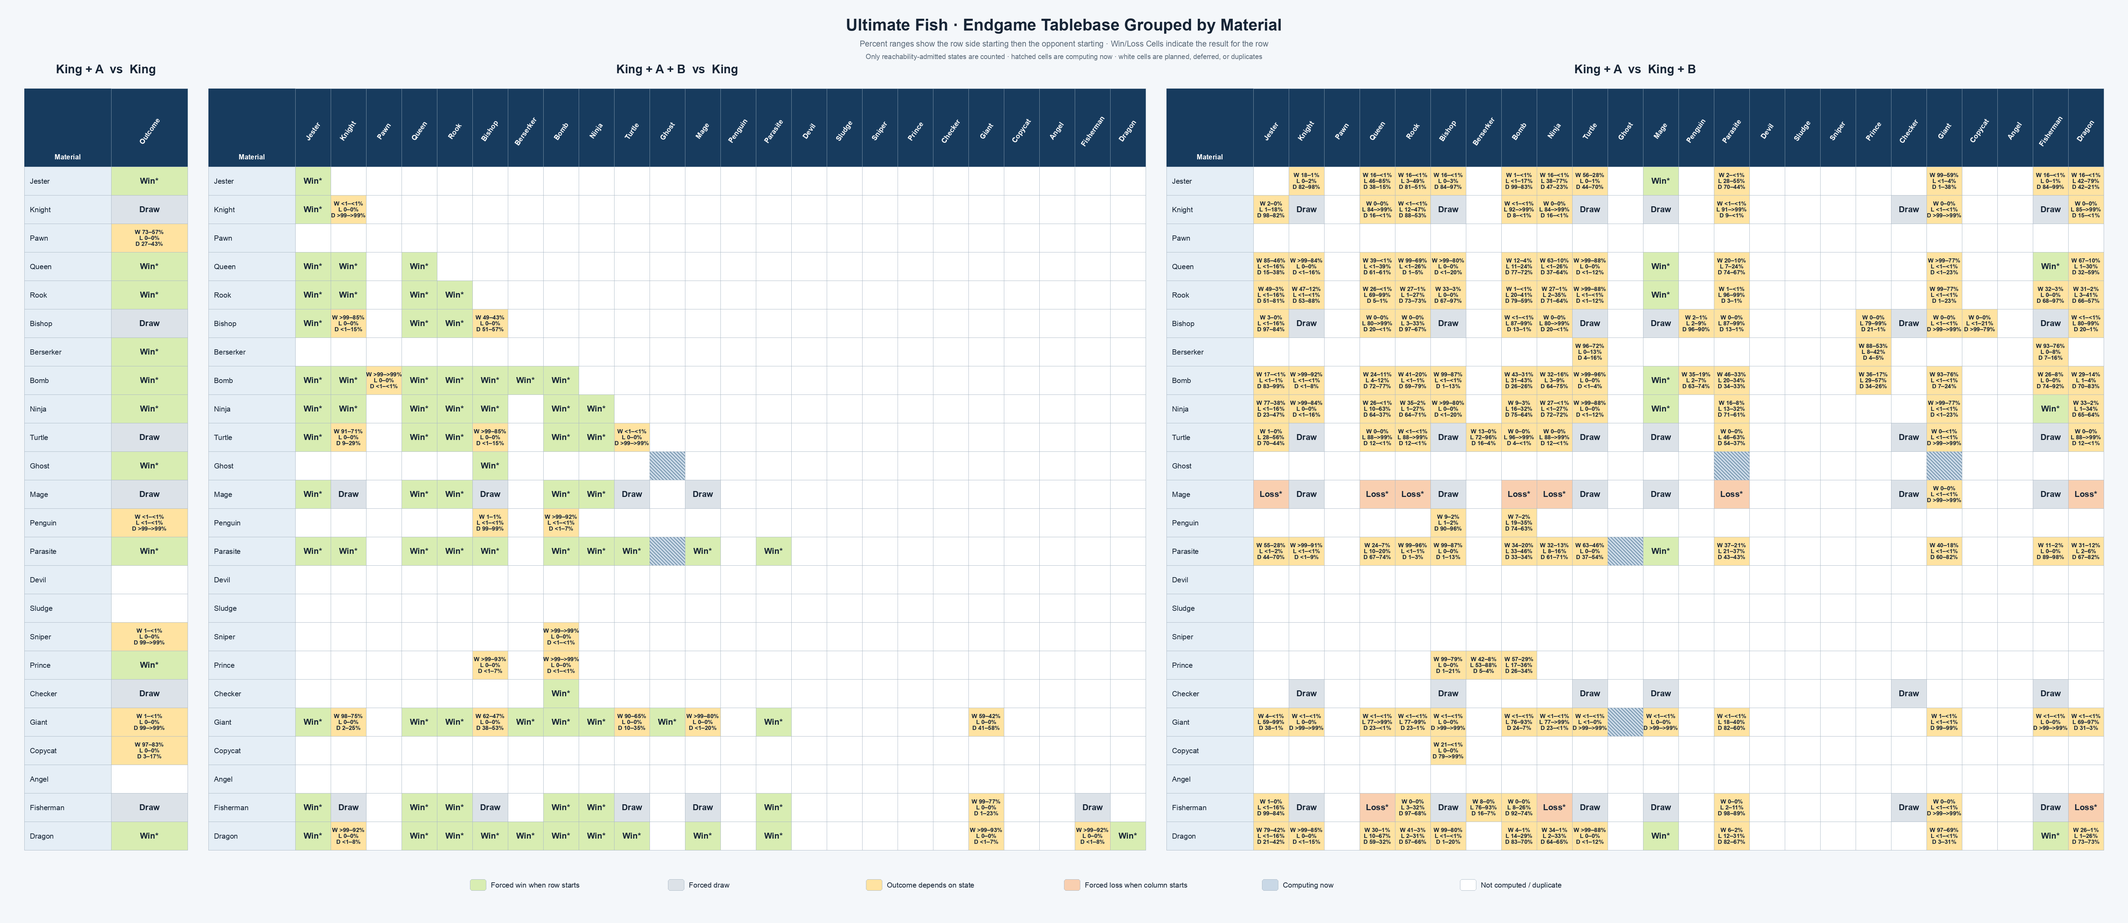
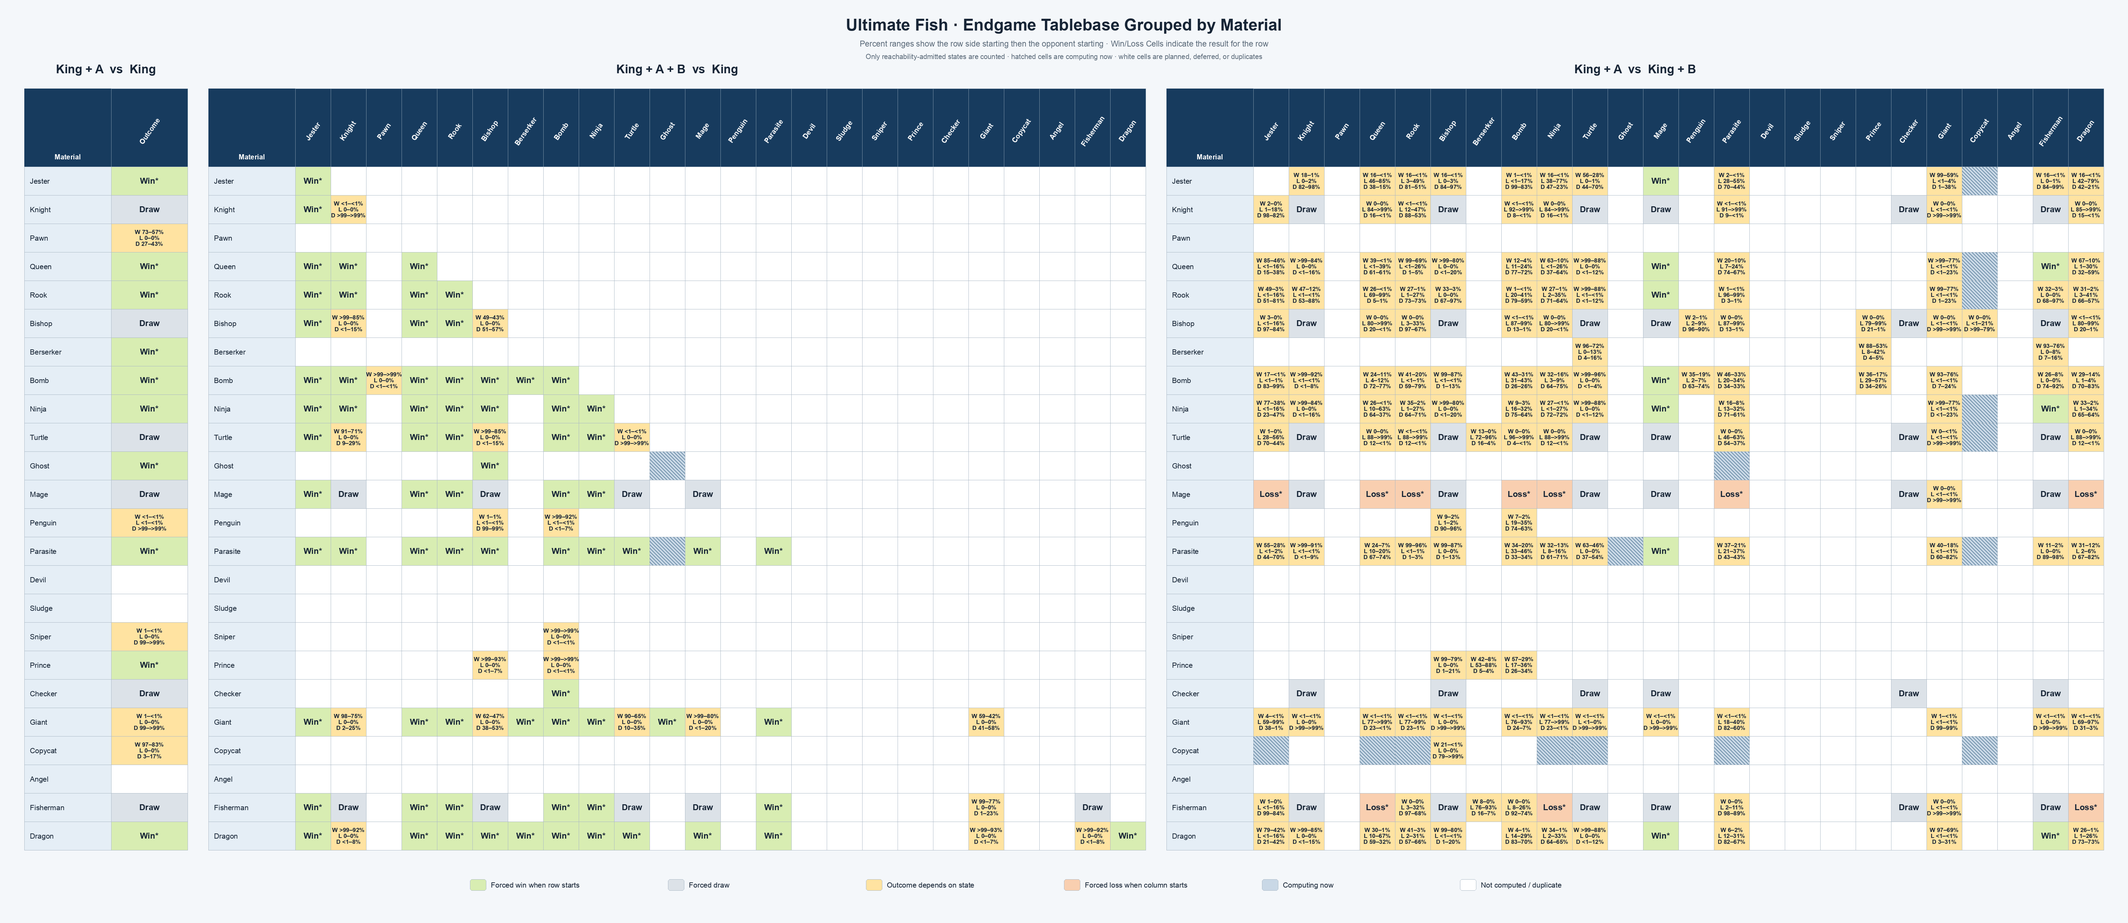
tablebases: reconcile AWS ledger

diff --git a/tablebases/README.md b/tablebases/README.md
@@ -26,7 +26,7 @@ generated exclusively from the canonical ledger below by
 `python3 tools/plot_ultimate_tablebases.py`.
 
 <!-- COMPUTATION_LEDGER_START -->
-Ledger totals: **9 certified**, **186 preserving**, **4 computing**, **34 exact draws**, **234 planned**, **10 blocked**, and **147 deferred**; 624 unique material classes.
+Ledger totals: **9 certified**, **186 preserving**, **14 computing**, **34 exact draws**, **229 planned**, **5 blocked**, and **147 deferred**; 624 unique material classes.
 
 | Key | Class | Domain | File | Status | Indexed states | Result domain | First starts W / L / D | Second starts W / L / D | Reachable / unreachable (first; second) | Canonical storage |
 | --- | --- | --- | --- | --- | ---: | --- | ---: | ---: | ---: | --- |
@@ -140,7 +140,7 @@ Ledger totals: **9 certified**, **186 preserving**, **4 computing**, **34 exact 
 | `same:queen+prince` | King+Queen+Prince vs King | same | `kqueenprincek.uftb` | **PLANNED** | 75,915,840 | concrete | — | — | — | — |
 | `same:queen+checker` | King+Queen+Checker vs King | same | `kqueencheckerk.uftb` | **PLANNED** | 151,831,680 | concrete | — | — | — | — |
 | `same:queen+giant` | King+Queen+Giant vs King | same | `kqueengiantk.uftb` | **PRESERVING** | 37,957,920 | concrete | 7,071,014 (6,215,686) / 0 / 0 (5,692,260) | 0 (1,142,116) / 11,256,584 / 888,000 (5,692,260) | 7,071,014 / 11,907,946; 12,144,584 / 6,834,376 | S3 preservation pending |
-| `same:queen+copycat` | King+Queen+Copycat vs King | same | `kcopycatqueenk.uftb` | **BLOCKED** | 75,915,840 | concrete | — | — | — | — |
+| `same:queen+copycat` | King+Queen+Copycat vs King | same | `kcopycatqueenk.uftb` | **COMPUTING** | 75,915,840 | concrete | — | — | — | — |
 | `same:queen+angel` | King+Queen+Angel vs King | same | — | **DEFERRED** | — | concrete | — | — | — | — |
 | `same:queen+fisherman` | King+Queen+Fisherman vs King | same | `kqueenfishermank.uftb` | **PRESERVING** | 37,957,920 | concrete | 11,943,344 (7,035,616) / 0 / 0 | 0 (1,609,608) / 15,912,942 / 1,456,410 | 11,943,344 / 7,035,616; 17,369,352 / 1,609,608 | S3 preservation pending |
 | `same:queen+dragon` | King+Queen+Dragon vs King | same | `kqueendragonk.uftb` | **PRESERVING** | 37,957,920 | concrete | 9,653,298 (9,325,662) / 0 / 0 | 0 (1,609,608) / 17,238,014 / 131,338 | 9,653,298 / 9,325,662; 17,369,352 / 1,609,608 | S3 preservation pending |
@@ -160,7 +160,7 @@ Ledger totals: **9 certified**, **186 preserving**, **4 computing**, **34 exact 
 | `same:rook+prince` | King+Rook+Prince vs King | same | `krookprincek.uftb` | **PLANNED** | 75,915,840 | concrete | — | — | — | — |
 | `same:rook+checker` | King+Rook+Checker vs King | same | `krookcheckerk.uftb` | **PLANNED** | 151,831,680 | concrete | — | — | — | — |
 | `same:rook+giant` | King+Rook+Giant vs King | same | `krookgiantk.uftb` | **PRESERVING** | 37,957,920 | concrete | 8,246,894 (5,039,806) / 0 / 0 (5,692,260) | 0 (1,142,116) / 11,296,414 / 848,170 (5,692,260) | 8,246,894 / 10,732,066; 12,144,584 / 6,834,376 | S3 preservation pending |
-| `same:rook+copycat` | King+Rook+Copycat vs King | same | `kcopycatrookk.uftb` | **BLOCKED** | 75,915,840 | concrete | — | — | — | — |
+| `same:rook+copycat` | King+Rook+Copycat vs King | same | `kcopycatrookk.uftb` | **COMPUTING** | 75,915,840 | concrete | — | — | — | — |
 | `same:rook+angel` | King+Rook+Angel vs King | same | — | **DEFERRED** | — | concrete | — | — | — | — |
 | `same:rook+fisherman` | King+Rook+Fisherman vs King | same | `krookfishermank.uftb` | **PRESERVING** | 37,957,920 | concrete | 14,027,524 (4,951,436) / 0 / 0 | 0 (1,609,608) / 15,950,608 / 1,418,744 | 14,027,524 / 4,951,436; 17,369,352 / 1,609,608 | S3 preservation pending |
 | `same:rook+dragon` | King+Rook+Dragon vs King | same | `krookdragonk.uftb` | **PRESERVING** | 37,957,920 | concrete | 11,413,200 (7,565,760) / 0 / 0 | 0 (1,609,608) / 17,325,054 / 44,298 | 11,413,200 / 7,565,760; 17,369,352 / 1,609,608 | S3 preservation pending |
@@ -230,7 +230,7 @@ Ledger totals: **9 certified**, **186 preserving**, **4 computing**, **34 exact 
 | `same:ninja+prince` | King+Ninja+Prince vs King | same | `kninjaprincek.uftb` | **PLANNED** | 75,915,840 | concrete | — | — | — | — |
 | `same:ninja+checker` | King+Ninja+Checker vs King | same | `kninjacheckerk.uftb` | **PLANNED** | 151,831,680 | concrete | — | — | — | — |
 | `same:ninja+giant` | King+Ninja+Giant vs King | same | `kninjagiantk.uftb` | **PRESERVING** | 37,957,920 | concrete | 8,088,164 (5,198,536) / 0 / 0 (5,692,260) | 0 (1,142,116) / 11,260,640 / 883,944 (5,692,260) | 8,088,164 / 10,890,796; 12,144,584 / 6,834,376 | S3 preservation pending |
-| `same:ninja+copycat` | King+Ninja+Copycat vs King | same | `kcopycatninjak.uftb` | **BLOCKED** | 75,915,840 | concrete | — | — | — | — |
+| `same:ninja+copycat` | King+Ninja+Copycat vs King | same | `kcopycatninjak.uftb` | **COMPUTING** | 75,915,840 | concrete | — | — | — | — |
 | `same:ninja+angel` | King+Ninja+Angel vs King | same | — | **DEFERRED** | — | concrete | — | — | — | — |
 | `same:ninja+fisherman` | King+Ninja+Fisherman vs King | same | `kninjafishermank.uftb` | **PRESERVING** | 37,957,920 | concrete | 13,719,860 (5,259,100) / 0 / 0 | 0 (1,609,608) / 15,914,976 / 1,454,376 | 13,719,860 / 5,259,100; 17,369,352 / 1,609,608 | S3 preservation pending |
 | `same:ninja+dragon` | King+Ninja+Dragon vs King | same | `kninjadragonk.uftb` | **PRESERVING** | 37,957,920 | concrete | 11,131,336 (7,847,624) / 0 / 0 | 0 (1,609,608) / 17,252,356 / 116,996 | 11,131,336 / 7,847,624; 17,369,352 / 1,609,608 | S3 preservation pending |
@@ -245,7 +245,7 @@ Ledger totals: **9 certified**, **186 preserving**, **4 computing**, **34 exact 
 | `same:turtle+prince` | King+Turtle+Prince vs King | same | `kturtleprincek.uftb` | **PLANNED** | 75,915,840 | concrete | — | — | — | — |
 | `same:turtle+checker` | King+Turtle+Checker vs King | same | `kturtlecheckerk.uftb` | **PLANNED** | 151,831,680 | concrete | — | — | — | — |
 | `same:turtle+giant` | King+Turtle+Giant vs King | same | `kturtlegiantk.uftb` | **PRESERVING** | 37,957,920 | concrete | 8,823,608 (3,504,624) / 0 / 958,468 (5,692,260) | 0 (1,142,116) / 7,851,670 / 4,292,914 (5,692,260) | 9,782,076 / 9,196,884; 12,144,584 / 6,834,376 | S3 preservation pending |
-| `same:turtle+copycat` | King+Turtle+Copycat vs King | same | `kcopycatturtlek.uftb` | **BLOCKED** | 75,915,840 | concrete | — | — | — | — |
+| `same:turtle+copycat` | King+Turtle+Copycat vs King | same | `kcopycatturtlek.uftb` | **PLANNED** | 75,915,840 | concrete | — | — | — | — |
 | `same:turtle+angel` | King+Turtle+Angel vs King | same | — | **DEFERRED** | — | concrete | — | — | — | — |
 | `same:turtle+fisherman` | King+Turtle+Fisherman vs King | same | — | **DRAW** | — | insufficient material | 0 / 0 / 1 | 0 / 0 / 1 | closed-form draw | — |
 | `same:turtle+dragon` | King+Turtle+Dragon vs King | same | `kturtledragonk.uftb` | **PRESERVING** | 37,957,920 | concrete | 13,456,552 (5,522,408) / 0 / 0 | 0 (1,609,608) / 15,996,498 / 1,372,854 | 13,456,552 / 5,522,408; 17,369,352 / 1,609,608 | S3 preservation pending |
@@ -295,7 +295,7 @@ Ledger totals: **9 certified**, **186 preserving**, **4 computing**, **34 exact 
 | `same:parasite+prince` | King+Parasite+Prince vs King | same | `kparasiteprincek.uftb` | **PLANNED** | 75,915,840 | concrete | — | — | — | — |
 | `same:parasite+checker` | King+Parasite+Checker vs King | same | `kparasitecheckerk.uftb` | **PLANNED** | 151,831,680 | concrete | — | — | — | — |
 | `same:parasite+giant` | King+Parasite+Giant vs King | same | `kparasitegiantk.uftb` | **PRESERVING** | 37,957,920 | concrete | 9,347,536 (3,939,164) / 0 / 0 (5,692,260) | 0 (1,142,116) / 12,141,428 / 3,156 (5,692,260) | 9,347,536 / 9,631,424; 12,144,584 / 6,834,376 | S3 preservation pending |
-| `same:parasite+copycat` | King+Parasite+Copycat vs King | same | `kcopycatparasitek.uftb` | **BLOCKED** | 75,915,840 | concrete | — | — | — | — |
+| `same:parasite+copycat` | King+Parasite+Copycat vs King | same | `kcopycatparasitek.uftb` | **COMPUTING** | 75,915,840 | concrete | — | — | — | — |
 | `same:parasite+angel` | King+Parasite+Angel vs King | same | — | **DEFERRED** | — | concrete | — | — | — | — |
 | `same:parasite+fisherman` | King+Parasite+Fisherman vs King | same | `kparasitefishermank.uftb` | **PRESERVING** | 37,957,920 | concrete | 15,885,716 (3,093,244) / 0 / 0 | 0 (1,609,608) / 17,368,120 / 1,232 | 15,885,716 / 3,093,244; 17,369,352 / 1,609,608 | S3 preservation pending |
 | `same:parasite+dragon` | King+Parasite+Dragon vs King | same | `kparasitedragonk.uftb` | **PRESERVING** | 37,957,920 | concrete | 12,877,956 (6,101,004) / 0 / 0 | 0 (1,609,608) / 17,350,088 / 19,264 | 12,877,956 / 6,101,004; 17,369,352 / 1,609,608 | S3 preservation pending |
@@ -374,7 +374,7 @@ Ledger totals: **9 certified**, **186 preserving**, **4 computing**, **34 exact 
 | `opposed:jester+prince` | King+Jester vs King+Prince | opposed | `kjesterkprince.uftb` | **PLANNED** | 75,915,840 | concrete | — | — | — | — |
 | `opposed:jester+checker` | King+Jester vs King+Checker | opposed | `kjesterkchecker.uftb` | **PLANNED** | 151,831,680 | concrete | — | — | — | — |
 | `opposed:jester+giant` | King+Jester vs King+Giant | opposed | `kjesterkgiant.uftb` | **PRESERVING** | 37,957,920 | information v2 | 10,988,108 (2,193,308) / 32 / 105,252 (5,692,260) | 516,144 / 7,775,374 / 4,995,182 (5,692,260) | 11,093,392 / 7,885,568; 13,286,700 / 5,692,260 | S3 preservation pending |
-| `opposed:jester+copycat` | King+Jester vs King+Copycat | opposed | `kcopycatkjester.uftb` | **PLANNED** | 75,915,840 | concrete | — | — | — | — |
+| `opposed:jester+copycat` | King+Jester vs King+Copycat | opposed | `kcopycatkjester.uftb` | **COMPUTING** | 75,915,840 | concrete | — | — | — | — |
 | `opposed:jester+angel` | King+Jester vs King+Angel | opposed | — | **DEFERRED** | — | concrete | — | — | — | — |
 | `opposed:jester+fisherman` | King+Jester vs King+Fisherman | opposed | `kjesterkfisherman.uftb` | **PRESERVING** | 37,957,920 | information v2 | 2,499,754 (3,093,244) / 0 / 13,385,962 | 125,972 / 11,842 / 18,841,146 | 15,885,716 / 3,093,244; 18,978,960 / 0 | S3 preservation pending |
 | `opposed:jester+dragon` | King+Jester vs King+Dragon | opposed | `kjesterkdragon.uftb` | **PRESERVING** | 37,957,920 | information v2 | 2,493,996 (3,093,244) / 6,688,516 / 6,703,204 | 15,063,608 / 5,426 / 3,909,926 | 15,885,716 / 3,093,244; 18,978,960 / 0 | S3 preservation pending |
@@ -440,7 +440,7 @@ Ledger totals: **9 certified**, **186 preserving**, **4 computing**, **34 exact 
 | `opposed:queen+prince` | King+Queen vs King+Prince | opposed | `kqueenkprince.uftb` | **PLANNED** | 75,915,840 | concrete | — | — | — | — |
 | `opposed:queen+checker` | King+Queen vs King+Checker | opposed | `kqueenkchecker.uftb` | **PLANNED** | 151,831,680 | concrete | — | — | — | — |
 | `opposed:queen+giant` | King+Queen vs King+Giant | opposed | `kqueenkgiant.uftb` | **PRESERVING** | 37,957,920 | concrete | 8,452,246 (4,821,246) / 7,090 / 6,118 (5,692,260) | 20,818 (3,051,612) / 7,900,780 / 2,313,490 (5,692,260) | 8,465,454 / 10,513,506; 10,235,088 / 8,743,872 | S3 preservation pending |
-| `opposed:queen+copycat` | King+Queen vs King+Copycat | opposed | `kcopycatkqueen.uftb` | **PLANNED** | 75,915,840 | concrete | — | — | — | — |
+| `opposed:queen+copycat` | King+Queen vs King+Copycat | opposed | `kcopycatkqueen.uftb` | **COMPUTING** | 75,915,840 | concrete | — | — | — | — |
 | `opposed:queen+angel` | King+Queen vs King+Angel | opposed | — | **DEFERRED** | — | concrete | — | — | — | — |
 | `opposed:queen+fisherman` | King+Queen vs King+Fisherman | opposed | `kqueenkfisherman.uftb` | **PRESERVING** | 37,957,920 | concrete | 11,943,344 (7,035,616) / 0 / 0 | 0 (1,609,608) / 15,953,468 / 1,415,884 | 11,943,344 / 7,035,616; 17,369,352 / 1,609,608 | S3 preservation pending |
 | `opposed:queen+dragon` | King+Queen vs King+Dragon | opposed | `kqueenkdragon.uftb` | **PRESERVING** | 37,957,920 | concrete | 7,965,806 (7,035,616) / 108,042 / 3,869,496 | 4,290,082 (4,893,140) / 1,437,880 / 8,357,858 | 11,943,344 / 7,035,616; 14,085,820 / 4,893,140 | S3 preservation pending |
@@ -460,7 +460,7 @@ Ledger totals: **9 certified**, **186 preserving**, **4 computing**, **34 exact 
 | `opposed:rook+prince` | King+Rook vs King+Prince | opposed | `krookkprince.uftb` | **PLANNED** | 75,915,840 | concrete | — | — | — | — |
 | `opposed:rook+checker` | King+Rook vs King+Checker | opposed | `krookkchecker.uftb` | **PLANNED** | 151,831,680 | concrete | — | — | — | — |
 | `opposed:rook+giant` | King+Rook vs King+Giant | opposed | `krookkgiant.uftb` | **PRESERVING** | 37,957,920 | concrete | 9,768,484 (3,443,644) / 13,856 / 60,716 (5,692,260) | 30,722 (3,051,612) / 7,888,652 / 2,315,714 (5,692,260) | 9,843,056 / 9,135,904; 10,235,088 / 8,743,872 | S3 preservation pending |
-| `opposed:rook+copycat` | King+Rook vs King+Copycat | opposed | `kcopycatkrook.uftb` | **PLANNED** | 75,915,840 | concrete | — | — | — | — |
+| `opposed:rook+copycat` | King+Rook vs King+Copycat | opposed | `kcopycatkrook.uftb` | **COMPUTING** | 75,915,840 | concrete | — | — | — | — |
 | `opposed:rook+angel` | King+Rook vs King+Angel | opposed | — | **DEFERRED** | — | concrete | — | — | — | — |
 | `opposed:rook+fisherman` | King+Rook vs King+Fisherman | opposed | `krookkfisherman.uftb` | **PRESERVING** | 37,957,920 | concrete | 4,422,744 (4,951,436) / 0 / 9,604,780 | 0 (1,609,608) / 461,572 / 16,907,780 | 14,027,524 / 4,951,436; 17,369,352 / 1,609,608 | S3 preservation pending |
 | `opposed:rook+dragon` | King+Rook vs King+Dragon | opposed | `krookkdragon.uftb` | **PRESERVING** | 37,957,920 | concrete | 4,376,160 (4,951,436) / 437,638 / 9,213,726 | 5,782,264 (4,893,140) / 324,630 / 7,978,926 | 14,027,524 / 4,951,436; 14,085,820 / 4,893,140 | S3 preservation pending |
@@ -530,7 +530,7 @@ Ledger totals: **9 certified**, **186 preserving**, **4 computing**, **34 exact 
 | `opposed:ninja+prince` | King+Ninja vs King+Prince | opposed | `kninjakprince.uftb` | **PLANNED** | 75,915,840 | concrete | — | — | — | — |
 | `opposed:ninja+checker` | King+Ninja vs King+Checker | opposed | `kninjakchecker.uftb` | **PLANNED** | 151,831,680 | concrete | — | — | — | — |
 | `opposed:ninja+giant` | King+Ninja vs King+Giant | opposed | `kninjakgiant.uftb` | **PRESERVING** | 37,957,920 | concrete | 9,568,874 (3,695,184) / 13,504 / 9,138 (5,692,260) | 29,382 (3,051,612) / 7,890,026 / 2,315,680 (5,692,260) | 9,591,516 / 9,387,444; 10,235,088 / 8,743,872 | S3 preservation pending |
-| `opposed:ninja+copycat` | King+Ninja vs King+Copycat | opposed | `kcopycatkninja.uftb` | **PLANNED** | 75,915,840 | concrete | — | — | — | — |
+| `opposed:ninja+copycat` | King+Ninja vs King+Copycat | opposed | `kcopycatkninja.uftb` | **COMPUTING** | 75,915,840 | concrete | — | — | — | — |
 | `opposed:ninja+angel` | King+Ninja vs King+Angel | opposed | — | **DEFERRED** | — | concrete | — | — | — | — |
 | `opposed:ninja+fisherman` | King+Ninja vs King+Fisherman | opposed | `kninjakfisherman.uftb` | **PRESERVING** | 37,957,920 | concrete | 13,719,860 (5,259,100) / 0 / 0 | 0 (1,609,608) / 15,953,476 / 1,415,876 | 13,719,860 / 5,259,100; 17,369,352 / 1,609,608 | S3 preservation pending |
 | `opposed:ninja+dragon` | King+Ninja vs King+Dragon | opposed | `kninjakdragon.uftb` | **PRESERVING** | 37,957,920 | concrete | 4,589,520 (5,259,100) / 186,156 / 8,944,184 | 4,806,436 (4,893,140) / 276,566 / 9,002,818 | 13,719,860 / 5,259,100; 14,085,820 / 4,893,140 | S3 preservation pending |
@@ -545,7 +545,7 @@ Ledger totals: **9 certified**, **186 preserving**, **4 computing**, **34 exact 
 | `opposed:turtle+prince` | King+Turtle vs King+Prince | opposed | `kturtlekprince.uftb` | **PLANNED** | 75,915,840 | concrete | — | — | — | — |
 | `opposed:turtle+checker` | King+Turtle vs King+Checker | opposed | — | **DRAW** | — | insufficient material | 0 / 0 / 1 | 0 / 0 / 1 | closed-form draw | — |
 | `opposed:turtle+giant` | King+Turtle vs King+Giant | opposed | `kturtlekgiant.uftb` | **PRESERVING** | 37,957,920 | concrete | 0 (1,705,440) / 24,002 / 11,557,258 (5,692,260) | 42,846 (3,051,612) / 4 / 10,192,238 (5,692,260) | 11,581,260 / 7,397,700; 10,235,088 / 8,743,872 | S3 preservation pending |
-| `opposed:turtle+copycat` | King+Turtle vs King+Copycat | opposed | `kcopycatkturtle.uftb` | **BLOCKED** | 75,915,840 | concrete | — | — | — | — |
+| `opposed:turtle+copycat` | King+Turtle vs King+Copycat | opposed | `kcopycatkturtle.uftb` | **COMPUTING** | 75,915,840 | concrete | — | — | — | — |
 | `opposed:turtle+angel` | King+Turtle vs King+Angel | opposed | — | **DEFERRED** | — | concrete | — | — | — | — |
 | `opposed:turtle+fisherman` | King+Turtle vs King+Fisherman | opposed | — | **DRAW** | — | insufficient material | 0 / 0 / 1 | 0 / 0 / 1 | closed-form draw | — |
 | `opposed:turtle+dragon` | King+Turtle vs King+Dragon | opposed | `kturtlekdragon.uftb` | **PRESERVING** | 37,957,920 | concrete | 0 (2,397,164) / 14,530,158 / 2,051,638 | 14,056,448 (4,893,140) / 0 / 29,372 | 16,581,796 / 2,397,164; 14,085,820 / 4,893,140 | S3 preservation pending |
@@ -558,7 +558,7 @@ Ledger totals: **9 certified**, **186 preserving**, **4 computing**, **34 exact 
 | `opposed:ghost+sniper` | King+Ghost vs King+Sniper | opposed | `kghostksniper.uftb` | **PLANNED** | 303,663,360 | concrete | — | — | — | — |
 | `opposed:ghost+prince` | King+Ghost vs King+Prince | opposed | `kghostkprince.uftb` | **PLANNED** | 151,831,680 | concrete | — | — | — | — |
 | `opposed:ghost+checker` | King+Ghost vs King+Checker | opposed | `kghostkchecker.uftb` | **PLANNED** | 303,663,360 | concrete | — | — | — | concrete S3 `6166644c…` / `g2ZfdZC3PS4PAyhGElYcMa0TKWDoa4AZ`; information pending |
-| `opposed:ghost+giant` | King+Ghost vs King+Giant | opposed | `kghostkgiant.uftb` | **COMPUTING** | 75,915,840 | information required | — | — | — | — |
+| `opposed:ghost+giant` | King+Ghost vs King+Giant | opposed | `kghostkgiant.uftb` | **BLOCKED** | 75,915,840 | information required | — | — | — | — |
 | `opposed:ghost+copycat` | King+Ghost vs King+Copycat | opposed | `kcopycatkghost.uftb` | **PLANNED** | 151,831,680 | concrete | — | — | — | — |
 | `opposed:ghost+angel` | King+Ghost vs King+Angel | opposed | — | **DEFERRED** | — | concrete | — | — | — | — |
 | `opposed:ghost+fisherman` | King+Ghost vs King+Fisherman | opposed | `kghostkfisherman.uftb` | **PLANNED** | 75,915,840 | information required | — | — | — | — |
@@ -595,7 +595,7 @@ Ledger totals: **9 certified**, **186 preserving**, **4 computing**, **34 exact 
 | `opposed:parasite+prince` | King+Parasite vs King+Prince | opposed | `kparasitekprince.uftb` | **PLANNED** | 75,915,840 | concrete | — | — | — | — |
 | `opposed:parasite+checker` | King+Parasite vs King+Checker | opposed | `kparasitekchecker.uftb` | **PLANNED** | 151,831,680 | concrete | — | — | — | — |
 | `opposed:parasite+giant` | King+Parasite vs King+Giant | opposed | `kparasitekgiant.uftb` | **PRESERVING** | 37,957,920 | concrete | 4,429,348 (2,193,308) / 22,222 / 6,641,822 (5,692,260) | 39,116 (3,051,612) / 1,811,896 / 8,384,076 (5,692,260) | 11,093,392 / 7,885,568; 10,235,088 / 8,743,872 | S3 preservation pending |
-| `opposed:parasite+copycat` | King+Parasite vs King+Copycat | opposed | `kcopycatkparasite.uftb` | **PLANNED** | 75,915,840 | concrete | — | — | — | — |
+| `opposed:parasite+copycat` | King+Parasite vs King+Copycat | opposed | `kcopycatkparasite.uftb` | **COMPUTING** | 75,915,840 | concrete | — | — | — | — |
 | `opposed:parasite+angel` | King+Parasite vs King+Angel | opposed | — | **DEFERRED** | — | concrete | — | — | — | — |
 | `opposed:parasite+fisherman` | King+Parasite vs King+Fisherman | opposed | `kfishermankparasite.uftb` | **PRESERVING** | 37,957,920 | concrete | 0 (1,609,608) / 314,868 / 17,054,484 | 1,742,400 (3,093,244) / 0 / 14,143,316 | 17,369,352 / 1,609,608; 15,885,716 / 3,093,244 | S3 preservation pending |
 | `opposed:parasite+dragon` | King+Parasite vs King+Dragon | opposed | `kparasitekdragon.uftb` | **PRESERVING** | 37,957,920 | concrete | 4,898,546 (3,093,244) / 314,622 / 10,672,548 | 887,716 (4,893,140) / 1,657,392 / 11,540,712 | 15,885,716 / 3,093,244; 14,085,820 / 4,893,140 | S3 preservation pending |
@@ -644,7 +644,7 @@ Ledger totals: **9 certified**, **186 preserving**, **4 computing**, **34 exact 
 | `opposed:giant+angel` | King+Giant vs King+Angel | opposed | — | **DEFERRED** | — | concrete | — | — | — | — |
 | `opposed:giant+fisherman` | King+Giant vs King+Fisherman | opposed | `kgiantkfisherman.uftb` | **PRESERVING** | 37,957,920 | concrete | 30,332 (3,051,612) / 0 / 10,204,756 (5,692,260) | 0 (1,313,848) / 12,816 / 11,960,036 (5,692,260) | 10,235,088 / 8,743,872; 11,972,852 / 7,006,108 | S3 preservation pending |
 | `opposed:giant+dragon` | King+Giant vs King+Dragon | opposed | `kgiantkdragon.uftb` | **PRESERVING** | 37,957,920 | concrete | 31,726 (3,051,612) / 7,071,638 / 3,131,724 (5,692,260) | 9,668,900 (3,346,434) / 12,978 / 258,388 (5,692,260) | 10,235,088 / 8,743,872; 9,940,266 / 9,038,694 | S3 preservation pending |
-| `opposed:copycat+copycat` | King+Copycat vs King+Copycat | opposed | `kcopycatkcopycat.uftb` | **PLANNED** | 75,915,840 | concrete | — | — | — | — |
+| `opposed:copycat+copycat` | King+Copycat vs King+Copycat | opposed | `kcopycatkcopycat.uftb` | **COMPUTING** | 75,915,840 | concrete | — | — | — | — |
 | `opposed:copycat+angel` | King+Copycat vs King+Angel | opposed | — | **DEFERRED** | — | concrete | — | — | — | — |
 | `opposed:copycat+fisherman` | King+Copycat vs King+Fisherman | opposed | — | **DEFERRED** | — | concrete | — | — | — | — |
 | `opposed:copycat+dragon` | King+Copycat vs King+Dragon | opposed | `kcopycatkdragon.uftb` | **PLANNED** | 75,915,840 | concrete | — | — | — | — |
